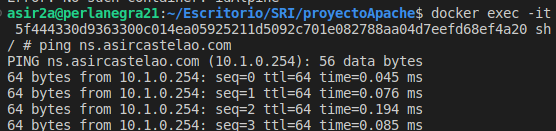
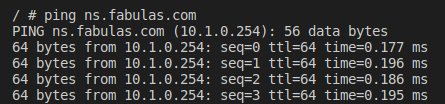
dns2

diff --git a/readme.md b/readme.md
@@ -188,9 +188,9 @@ include "/etc/bind/named.conf.local";
 El segundo llamado *named.conf.local* donde incluiremos lo siguiente:
 
 ~~~
-zone "asircastelao.com." {
+zone "fabulas.com." {
         type master;
-        file "/var/lib/bind/db.asircastelao.com";
+        file "/var/lib/bind/db.fabulas.com";
         allow-query {
             any;
         };
@@ -214,19 +214,19 @@ options {
 };
 ~~~
 
-En la carpeta zonas creamos un fichero llamado *db.asircastelao.com* donde incluiremos lo siguiente:
+En la carpeta zonas creamos un fichero llamado *db.fabulas.com* donde incluiremos lo siguiente:
 
 ~~~
 $TTL    3600
-@       IN      SOA     ns.asircastelao.com. nerea.danielcastelao.org. (
+@       IN      SOA     ns.fabulas.com. nerea.fabulas.org. (
                    2007010401           ; Serial
                          3600           ; Refresh [1h]
                           600           ; Retry   [10m]
                         86400           ; Expire  [1d]
                           600 )         ; Negative Cache TTL [1h]
 ;
-@       IN      NS      ns.asircastelao.com.
-@       IN      MX      10 servidorcorreo.asircastelao.org.
+@       IN      NS      ns.fabulas.com.
+@       IN      MX      10 servidorcorreo.fabulas.org.
 
 ns     IN      A       10.1.0.254
 etch    IN      A       123.123.4.5
@@ -271,12 +271,9 @@ networks:
 Con esto, hacemos un docker-compose up y todos los contenedores (asir_bin9, asir_cliente(alpine) y asir_apache) se levantarán.
 
 ### Comprobación de funcionamiento de DNS
-Haremos click derecho sobre el contenedor Alpine y seleccionamos Inspect. Copiaremos la id del contenedor.
+Haremos click derecho sobre el contenedor Alpine y seleccionamos Attach shell.
 
-En la terminal usaremos el comando:
-*docker exec -it idAlpine sh* usando la id que hemos copiado anteriormente.
-
-A continuación, haremos *ping ns.asircastelao.com* y si todo funciona correctamente, tendremos la comprobación de que el DNS está bien configurado.
+A continuación, haremos *ping ns.fabulas.com* y si todo funciona correctamente, tendremos la comprobación de que el DNS está bien configurado.
 
 Comprobación:
 
